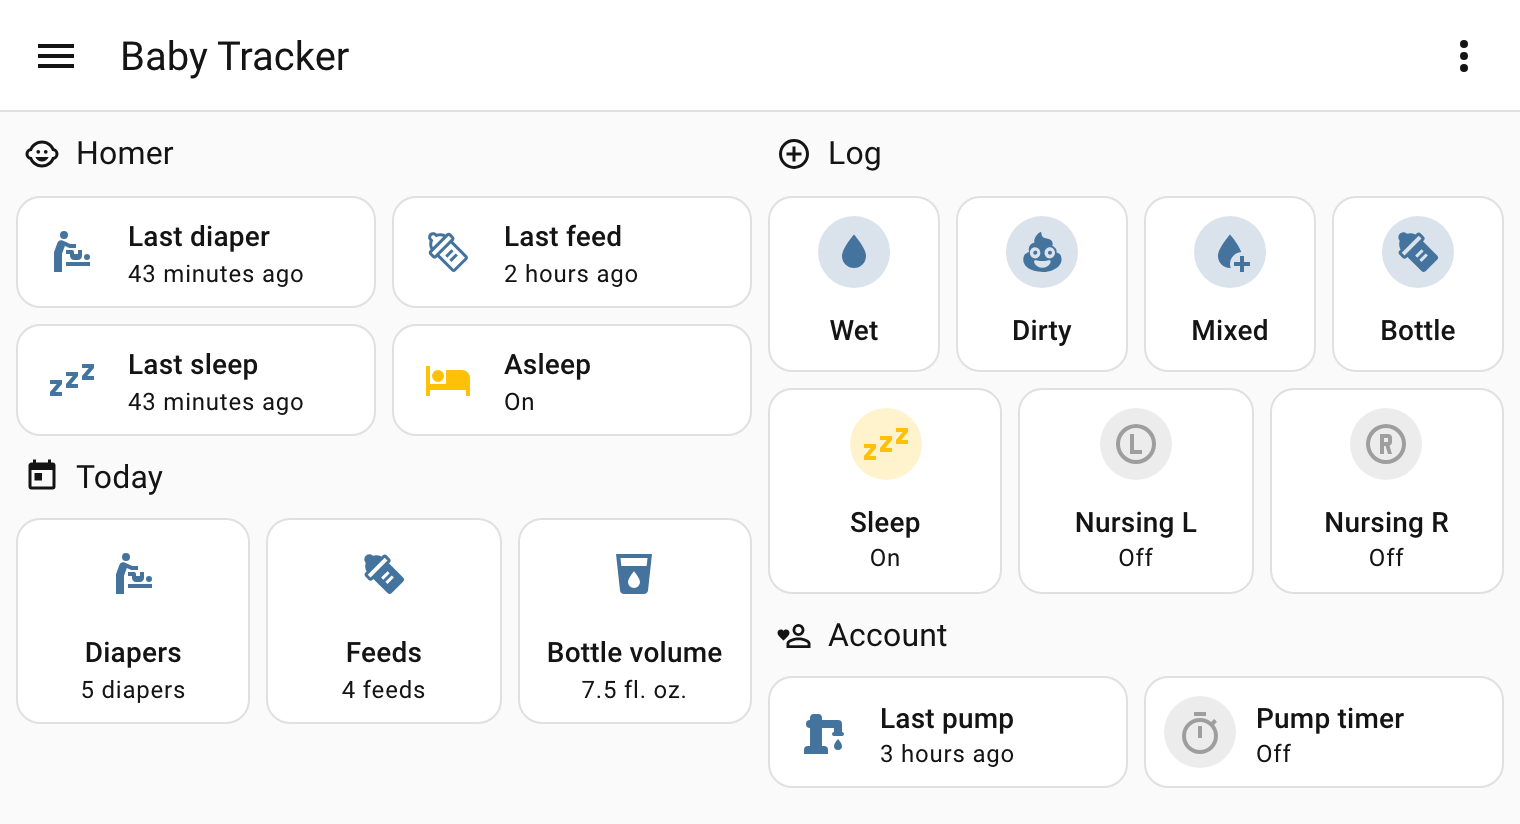
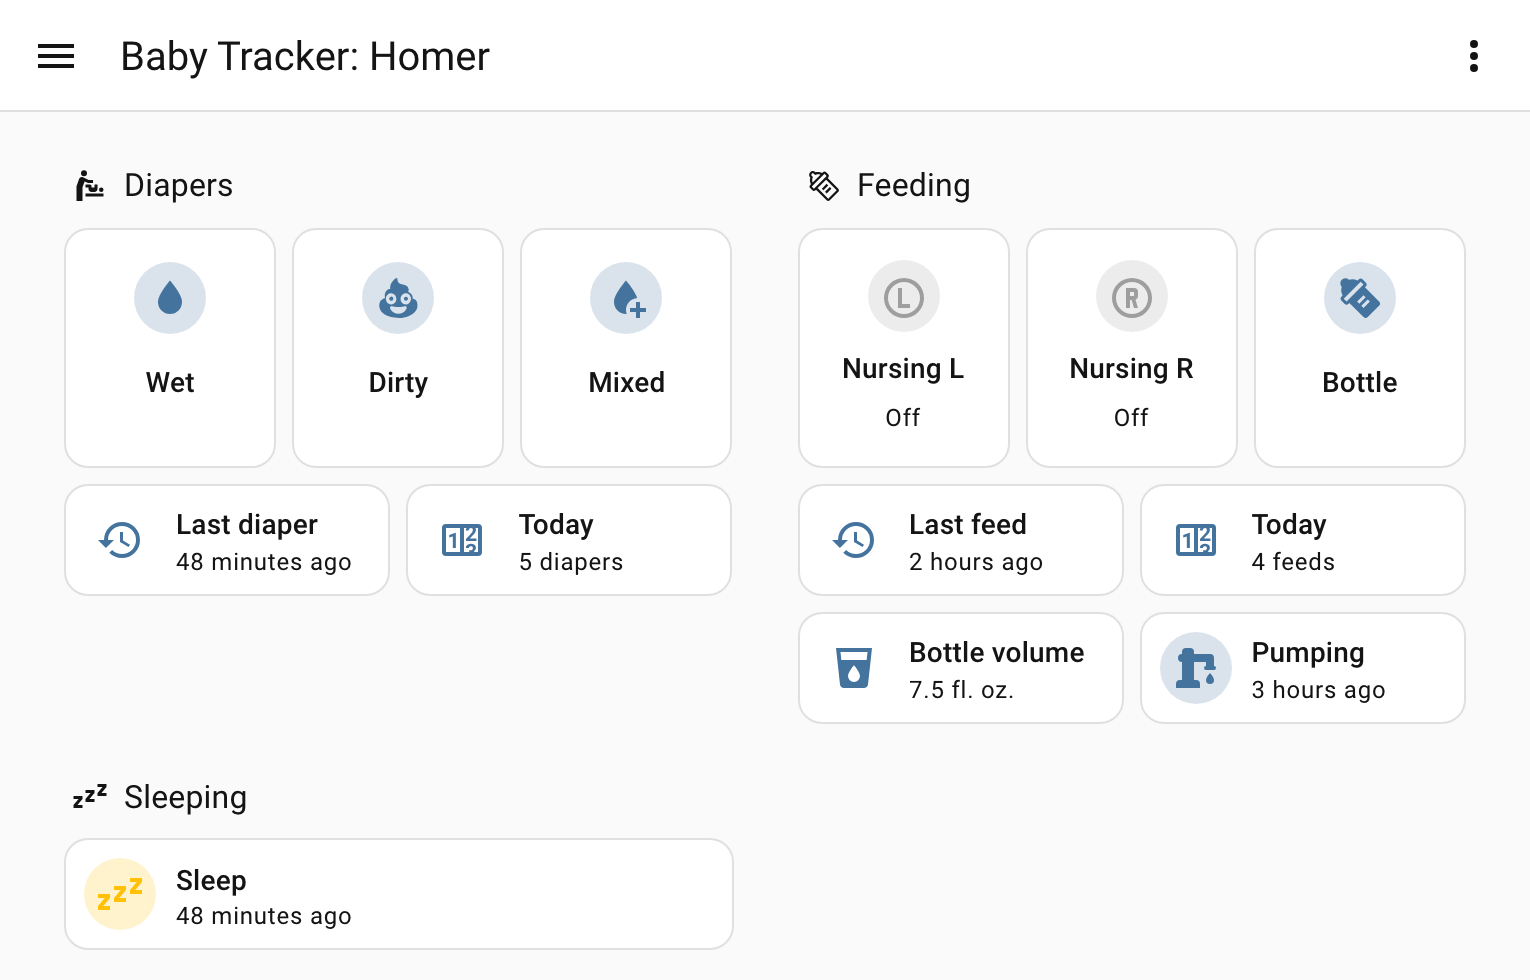
README: a simpler dashboard screenshot, grouped by diapers, feeding, and sleep

diff --git a/README.md b/README.md
@@ -12,7 +12,7 @@ This integration is not made or supported by Nighp, the maker of Baby Tracker. F
 issue in this repository; please don't contact Nighp.
 
 <p align="center">
-  <img src="docs/images/dashboard.png" alt="A Home Assistant dashboard for a baby named Homer: last diaper 43 minutes ago, last feed 2 hours ago, asleep, 5 diapers and 4 feeds today, buttons to log a diaper or bottle, sleep and nursing timer switches, and the account's last pump" width="760">
+  <img src="docs/images/dashboard.png" alt="A Home Assistant dashboard titled Baby Tracker: Homer, in three sections. Diapers: wet, dirty, and mixed buttons, last diaper 48 minutes ago, 5 diapers today. Feeding: nursing left and right switches, a bottle button, last feed 2 hours ago, 4 feeds today, 7.5 fl. oz. bottle volume, and pumping 3 hours ago. Sleeping: a sleep tile, on, started 48 minutes ago" width="765">
 </p>
 
 ## What you get
